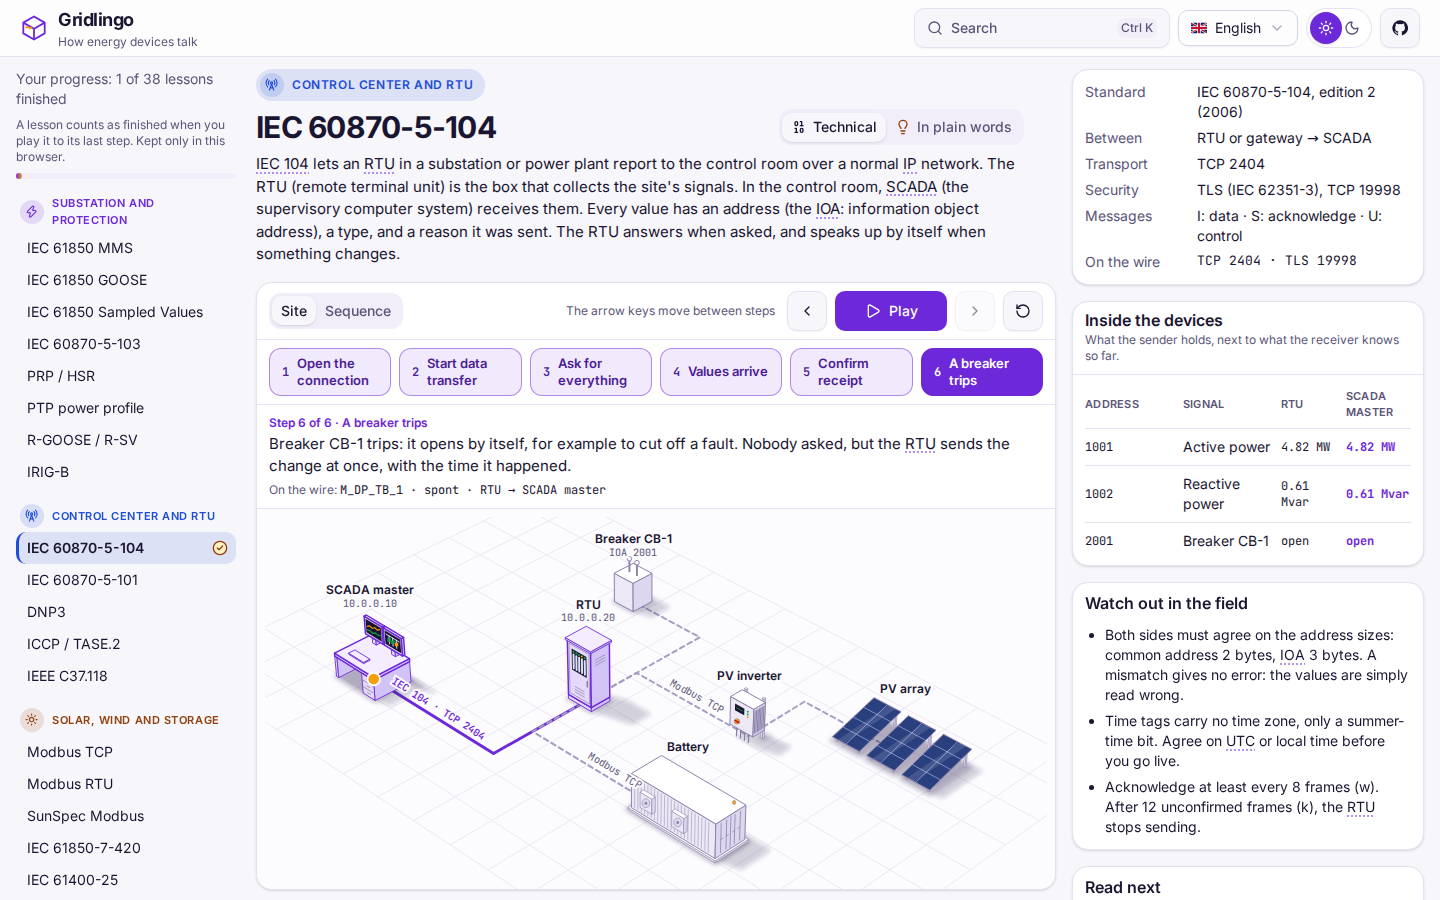
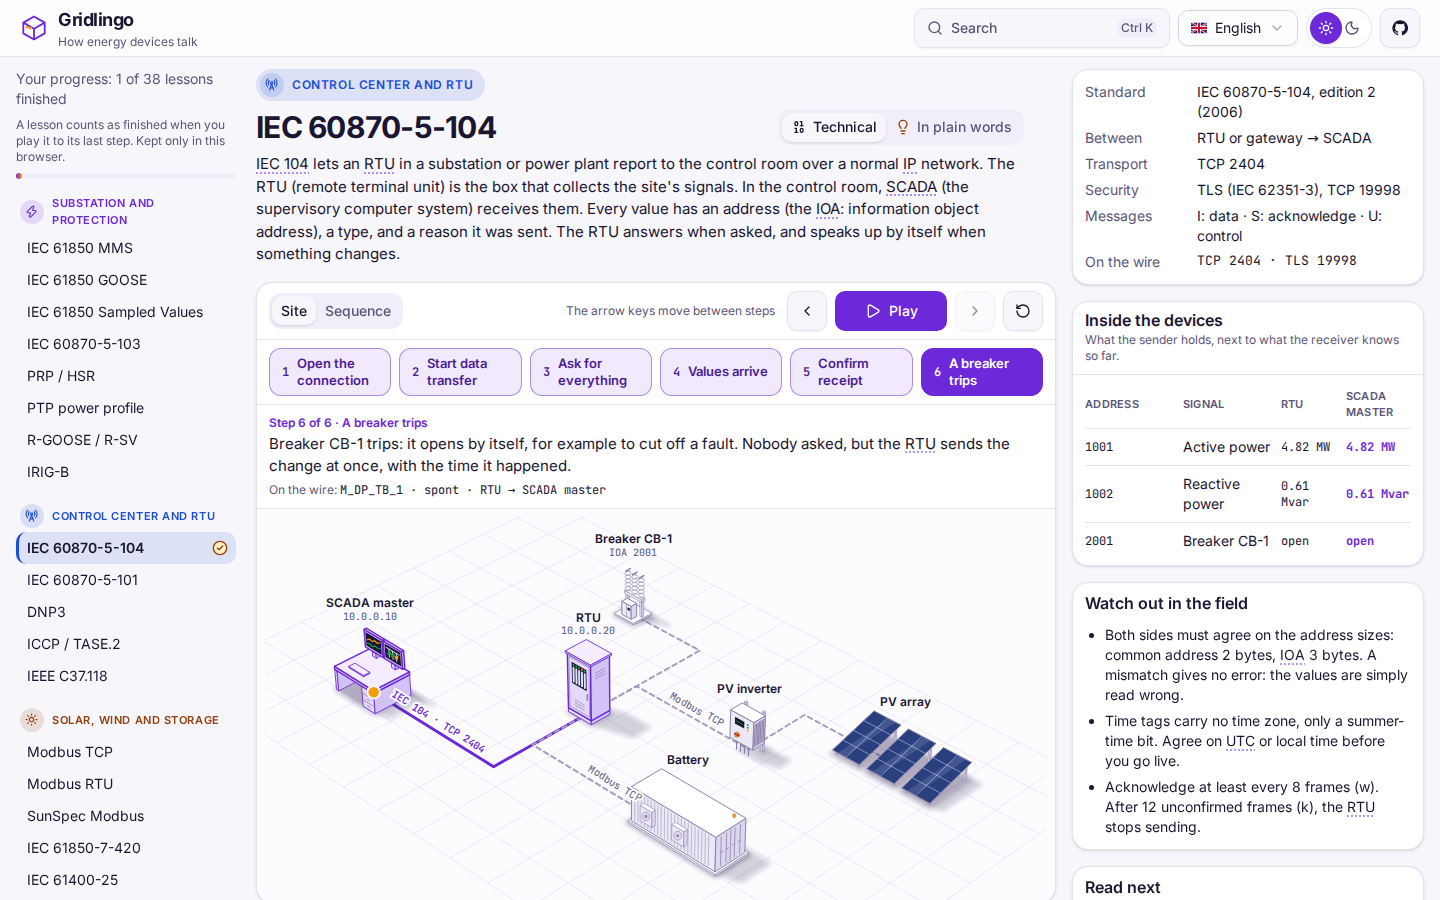
feat(viz): the circuit breaker drawn as a substation breaker
The breaker was a box with two posts on top. It now stands on a pad as an
outdoor substation breaker: a steel frame of two legs and a beam, one
insulator column per phase on the beam (a core with round sheds stacked up
it and a clamp for the line on top), and the operating mechanism's cabinet
in front with a position window. It is taller (44 instead of 30), so its
label sits higher. Pad, frame, cabinet and columns are in bodyOf.

Checks: build, lint, typecheck, 1,149 unit tests, visual baselines
regenerated, e2e 79 passed.

Changed region(s): [[0.3125, 0.6222, 0.6875, 0.9956], [0.2188, 0.6533, 0.3125, 0.8089]]

diff --git a/src/viz/devices.tsx b/src/viz/devices.tsx
@@ -8,7 +8,7 @@ const SIZE: Record<DeviceKind, { w: number; d: number; h: number }> = {
     rtu: { w: 28, d: 22, h: 62 },
     gateway: { w: 30, d: 22, h: 22 },
     relay: { w: 26, d: 20, h: 52 },
-    breaker: { w: 24, d: 24, h: 30 },
+    breaker: { w: 24, d: 24, h: 44 },
     "merging-unit": { w: 24, d: 20, h: 20 },
     clock: { w: 26, d: 20, h: 24 },
     switch: { w: 44, d: 24, h: 12 },
@@ -85,6 +85,19 @@ function meterParts(cx: number, cy: number) {
     return { pillar: { cx, cy, w, d, h: h - 2 } satisfies Box, meter: { cx, cy: cy + d / 2 + 1.5, w: w - 6, d: 3, h: 15, z: 10 } satisfies Box, cap: { cx, cy, w: w + 2, d: d + 2, h: 2, z: h - 2 } satisfies Box };
 }
 
+/** An outdoor circuit breaker: a pad, a steel frame (two legs and a beam), one insulator column per phase on the beam,
+ * and the operating mechanism's cabinet in front. */
+function breakerParts(cx: number, cy: number) {
+    const y = cy - 2;
+    return {
+        pad: { cx, cy, w: SIZE.breaker.w, d: SIZE.breaker.d, h: 1.5 } satisfies Box,
+        legs: [-1, 1].map((at): Box => ({ cx: cx + at * 9, cy: y, w: 2.5, d: 2.5, h: 18, z: 1.5 })),
+        beam: { cx, cy: y, w: 22, d: 4, h: 3, z: 18 } satisfies Box,
+        poles: [-8.5, 0, 8.5].map((dx) => [cx + dx, y] as const),
+        cabinet: { cx, cy: cy + 5, w: 12, d: 7, h: 14, z: 1.5 } satisfies Box,
+    };
+}
+
 /** A battery container on its concrete pad. */
 function batteryParts(cx: number, cy: number) {
     const { w, d, h } = SIZE.battery;
@@ -102,6 +115,10 @@ export function bodyOf(kind: DeviceKind, cx: number, cy: number): Box[] {
         return [desk, ...screens];
     }
     if (kind === "pv") return pvParts(cx, cy);
+    if (kind === "breaker") {
+        const { pad, beam, cabinet } = breakerParts(cx, cy);
+        return [pad, { ...beam, h: 21, z: 0 }, cabinet, { ...beam, w: 20, h: 23, z: 21 }];
+    }
     if (kind === "meter") {
         const { pillar, meter } = meterParts(cx, cy);
         return [pillar, meter];
@@ -414,12 +431,43 @@ export function DeviceShape({ kind, cx, cy, active = false }: { kind: DeviceKind
                 />
             );
             break;
-        case "breaker":
+        case "breaker": {
+            // Each column is an insulator: a core with round sheds stacked up it, a clamp for the line on top
+            const { pad, legs, beam, poles, cabinet } = breakerParts(cx, cy);
+            const door = faces(cabinet).onLeft;
+            const column = ([x, y]: readonly [number, number]) => {
+                const [bx, by] = project(x, y, 21);
+                const [tx, ty] = project(x, y, 42);
+                return (
+                    <g key={x}>
+                        <polygon points={quad([bx - 1.5, by], [tx - 1.5, ty], [tx + 1.5, ty], [bx + 1.5, by])} fill={tone.left} stroke={tone.edge} strokeWidth={0.6} />
+                        {[23.5, 27.5, 31.5, 35.5, 39.5].map((z) => {
+                            const [sx, sy] = project(x, y, z);
+                            return <ellipse key={z} cx={round(sx)} cy={round(sy)} rx={3.1} ry={1.8} fill={tone.top} stroke={tone.edge} strokeWidth={0.6} />;
+                        })}
+                        <Lines list={[[project(x, y - 3, 43), project(x, y + 3, 43)]]} stroke={tone.edge} width={1.6} />
+                    </g>
+                );
+            };
+            return (
+                <g>
+                    <Solid box={pad} active={active} fine />
+                    {legs.map((leg) => (
+                        <Solid key={leg.cx} box={leg} active={active} fine />
+                    ))}
+                    <Solid box={beam} active={active} fine />
+                    {poles.map(column)}
+                    <Solid box={cabinet} active={active} />
+                    <Lines list={[[door(0.5, 0.08), door(0.5, 0.92)]]} width={0.6} />
+                    <Panel on={door} u0={0.62} v0={0.58} u1={0.86} v1={0.78} fill="var(--viz-screen)" />
+                </g>
+            );
+        }
         case "transformer": {
-            const tops = kind === "breaker" ? [0.3, 0.7] : [0.25, 0.5, 0.75];
+            const tops = [0.25, 0.5, 0.75];
             detail = (
                 <>
-                    {kind === "transformer" && <Lines list={[0.2, 0.35, 0.5, 0.65, 0.8].map((u) => [f.onLeft(u, 0.12), f.onLeft(u, 0.88)])} />}
+                    <Lines list={[0.2, 0.35, 0.5, 0.65, 0.8].map((u) => [f.onLeft(u, 0.12), f.onLeft(u, 0.88)])} />
                     {tops.map((u) => {
                         const [x, y] = f.onTop(u, 0.5);
                         return (
